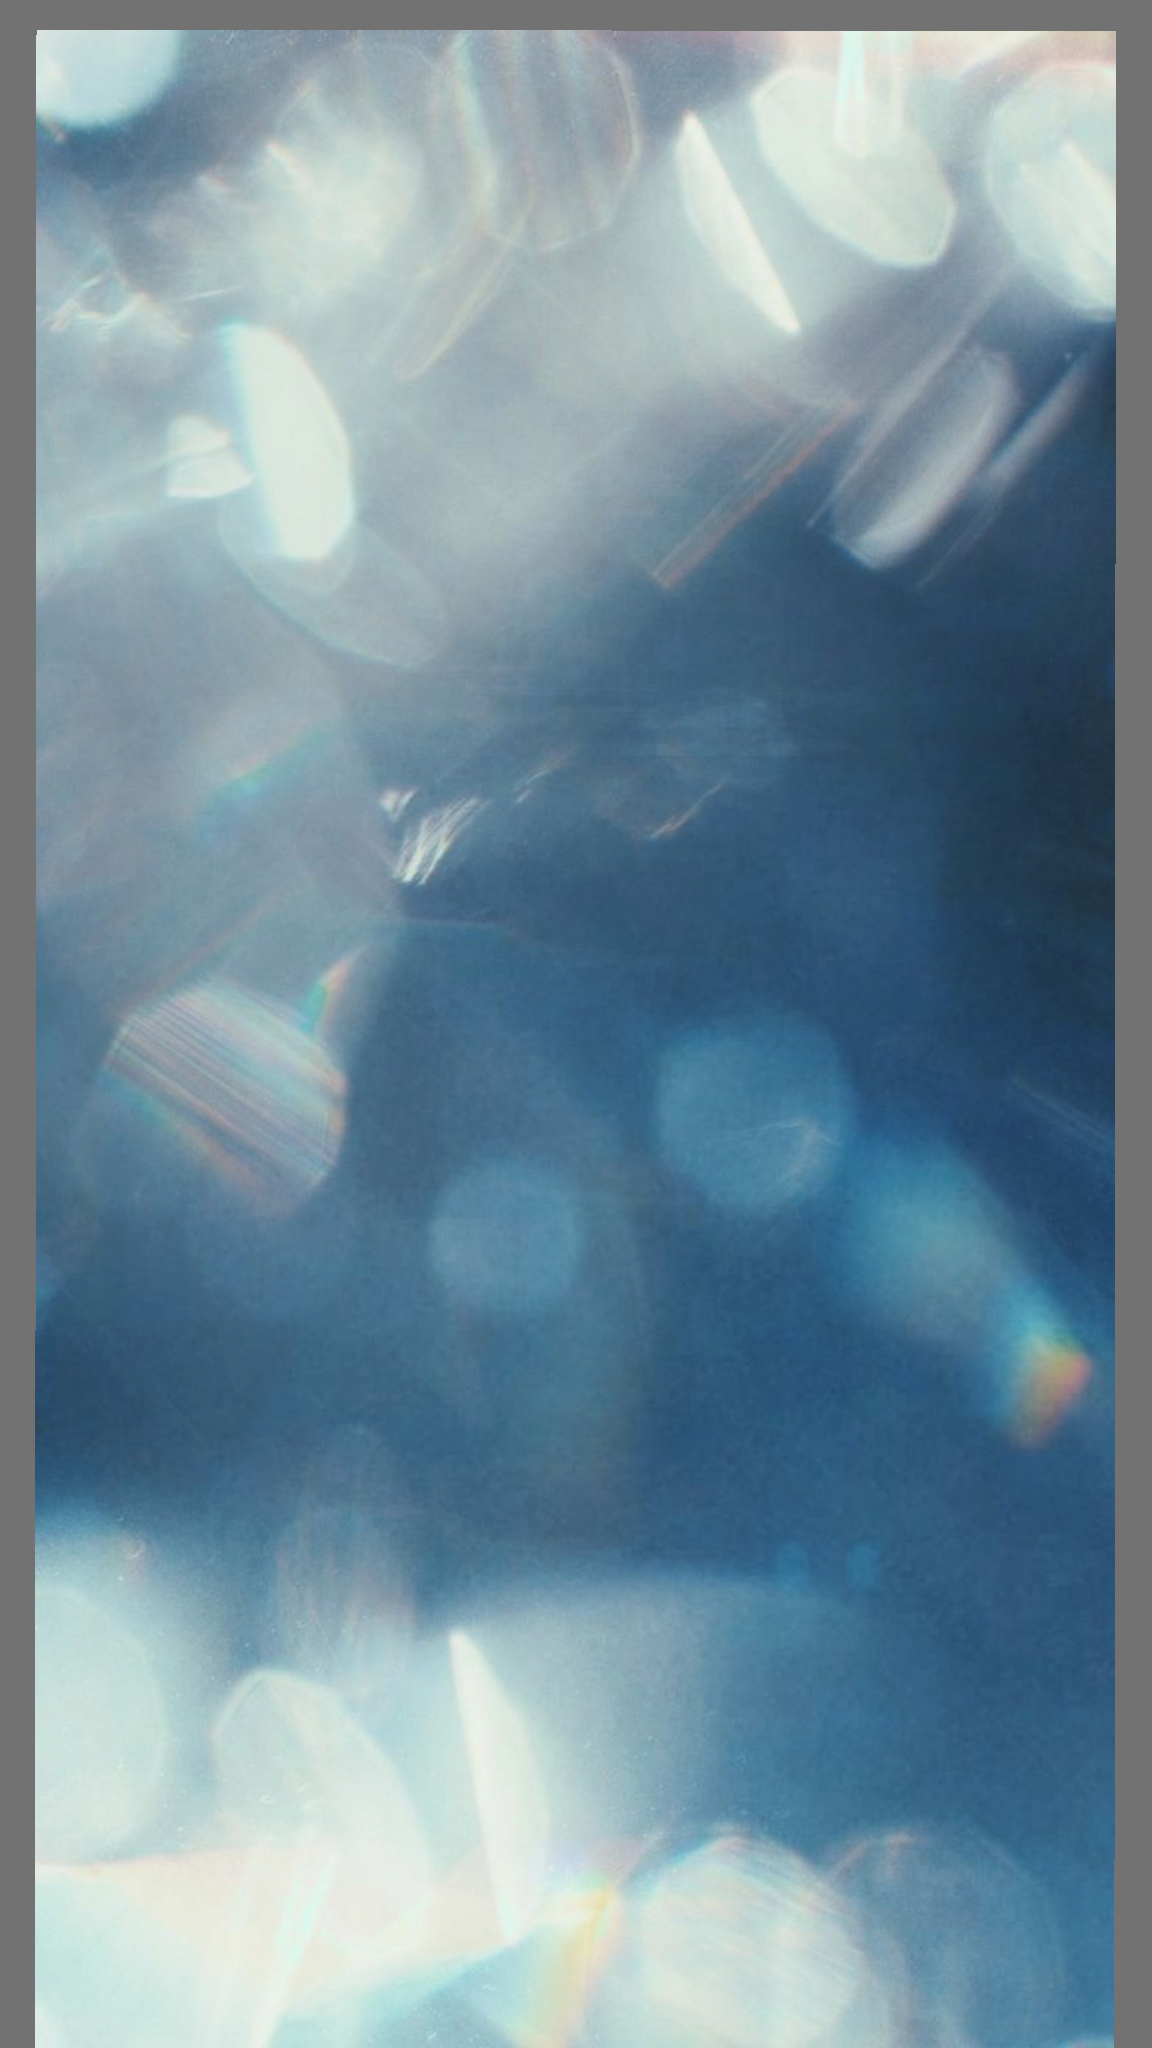
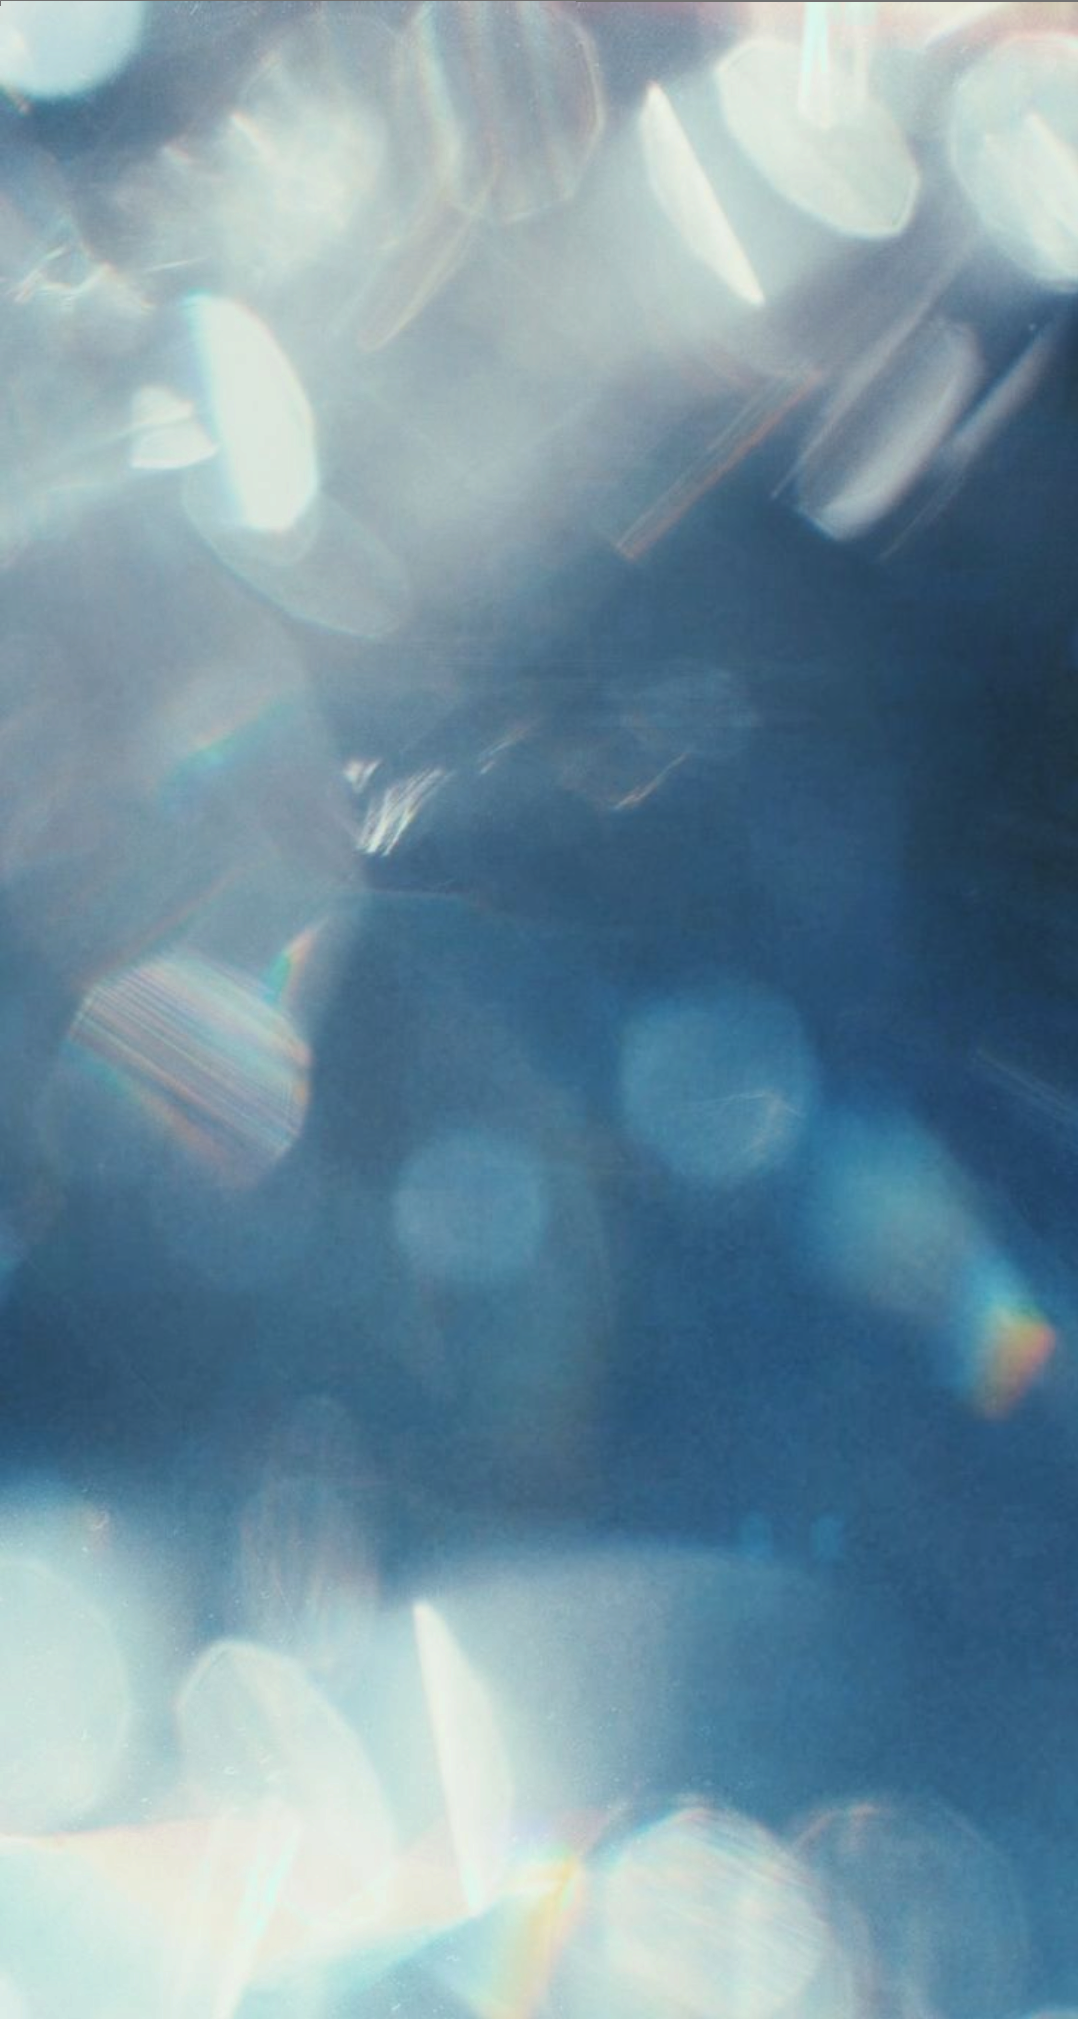
Aggiorna i link di navigazione e aggiunge ID per il collegamento alle sezioni della homepage; migliora gli stili hover per i link.

diff --git a/index.html b/index.html
@@ -26,10 +26,10 @@
 
       <div class="collapse navbar-collapse" id="navbarNav">
         <ul class="navbar-nav ms-auto">
-          <li class="nav-item"><a class="nav-link nav-link-pers mx-2" aria-current="page" href="#">Chi siamo</a></li>
-          <li class="nav-item"><a class="nav-link nav-link-pers mx-2" href="#">Prodotti</a></li>
-          <li class="nav-item"><a class="nav-link nav-link-pers mx-2" href="#">Shop</a></li>
-          <li class="nav-item"><a class="nav-link nav-link-pers mx-2" href="#">Contatti</a></li>
+          <li class="nav-item"><a class="nav-link nav-link-pers mx-2" aria-current="page" href="#chisiamo">Chi siamo</a></li>
+          <li class="nav-item"><a class="nav-link nav-link-pers mx-2" href="#prodottiLink">Prodotti</a></li>
+          <li class="nav-item"><a class="nav-link nav-link-pers mx-2" href="#shop">Shop</a></li>
+          <li class="nav-item"><a class="nav-link nav-link-pers mx-2" href="#contatti">Contatti</a></li>
         </ul>
       </div>
     </div>
@@ -47,7 +47,7 @@
   <section class="container py-4 py-md-5">
     <div class="row align-items-center g-4">
       <div class="col-12 col-md-6 text-center text-md-start order-last order-md-first">
-        <h2>Per chi sente troppo</h2>
+        <h2 id="chisiamo">Per chi sente troppo</h2>
         <p>Fuori non sempre le giornate sono grigie. A volte lo sono dentro di noi. Viviamo costantemente sovraccarichi:
           notifiche, pressione, rumore mentale. Sunshine nasce per trasformare i momenti emotivamente grigi in una
           sensazione di leggerezza, calma e luce.</p>
@@ -63,7 +63,7 @@
   <section class="container py-4 py-md-5">
     <div class="row align-items-center g-4 flex-md-row-reverse">
       <div class="col-12 col-md-6 text-center text-md-start order-last order-md-first">
-        <h2>Progettato per il tuo meteo interiore</h2>
+        <h2 id="prodottiLink">Progettato per il tuo meteo interiore</h2>
         <p>Sunshine è uno spray emozionale progettato per stimolare benessere immediato attraverso Formula S-17 e
           tecnologia NeuroScent. Agendo attraverso l'olfatto, il senso più direttamente collegato a memoria ed emozioni,
           Sunshine crea una sensazione di calma, comfort e leggerezza emotiva.</p>
@@ -207,7 +207,7 @@
     </div>
   </section>
 
-  <section class="container py-5">
+  <section class="container py-5 my-5">
     <h1 class="blockquote">
       <b>
         Il sole non può seguirti ovunque. Sunshine sì.
@@ -232,10 +232,10 @@
         </div>
 
         <div class="col-12 col-md-6 d-flex justify-content-md-end gap-4 mt-3 mt-md-0">
-          <a href="#" class="text-decoration-none fw-semibold footer-element">Chi siamo</a>
-          <a href="#" class="text-decoration-none fw-semibold footer-element">Prodotti</a>
-          <a href="#" class="text-decoration-none fw-semibold footer-element">Shop</a>
-          <a href="#" class="text-decoration-none fw-semibold footer-element">Contatti</a>
+          <a href="#chisiamo" class="text-decoration-none fw-semibold footer-element footer-link">Chi siamo</a>
+          <a href="#prodottiLink" class="text-decoration-none fw-semibold footer-element footer-link">Prodotti</a>
+          <a href="#shop" class="text-decoration-none fw-semibold footer-element footer-link">Shop</a>
+          <a href="#contatti" class="text-decoration-none fw-semibold footer-element footer-link">Contatti</a>
         </div>
       </div>
     </div>

diff --git a/assets/style.css b/assets/style.css
@@ -19,6 +19,11 @@ body {
     font-weight: 500;
 }
 
+.nav-link-pers:hover {
+    color: #609df5;
+    opacity: 0.70;
+}
+
 p {
     font-family: "Poppins", sans-serif;
     font-size: 16px;
@@ -69,7 +74,6 @@ h2 {
     border: 3px solid #609df5;
 }
 
-/* NOTA: .btn sovrascrive Bootstrap — vedi commento in fondo */
 .btn-sunshine {
     font-family: "Poppins", sans-serif;
     display: inline-block;
@@ -167,7 +171,12 @@ h2 {
 }
 
 .card-link:hover {
-    opacity: 0.85;
+    /* opacity: 0.85; */
+    text-decoration: underline;
+}
+
+.footer-link:hover {
+    opacity: 0.70;
 }
 
 .container-cards {
